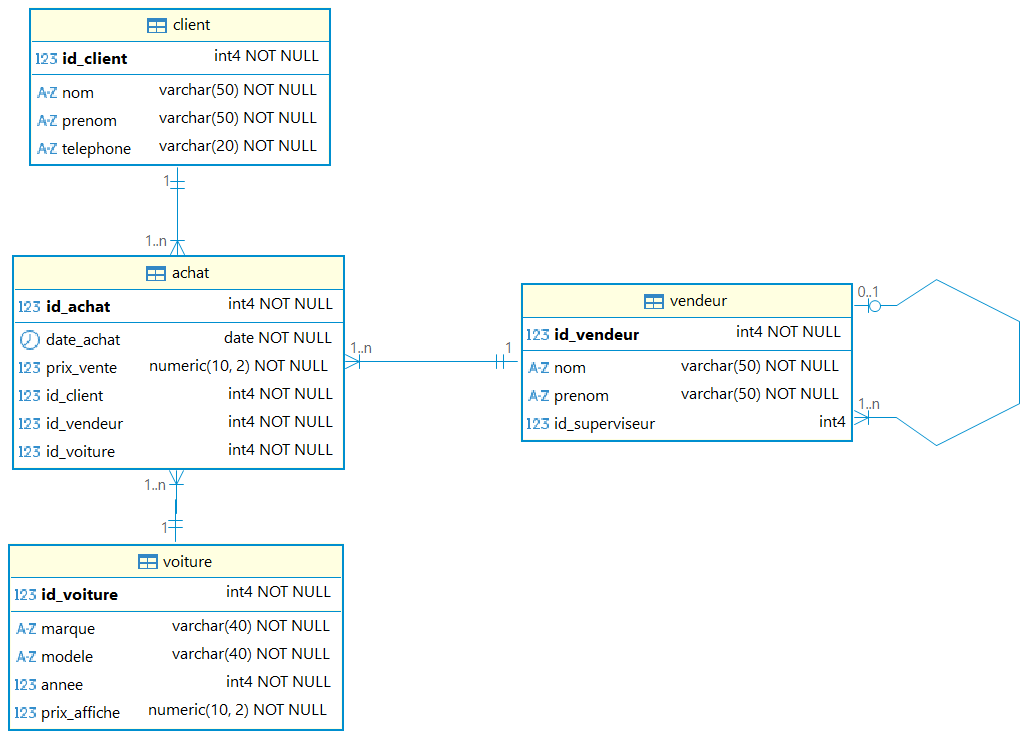
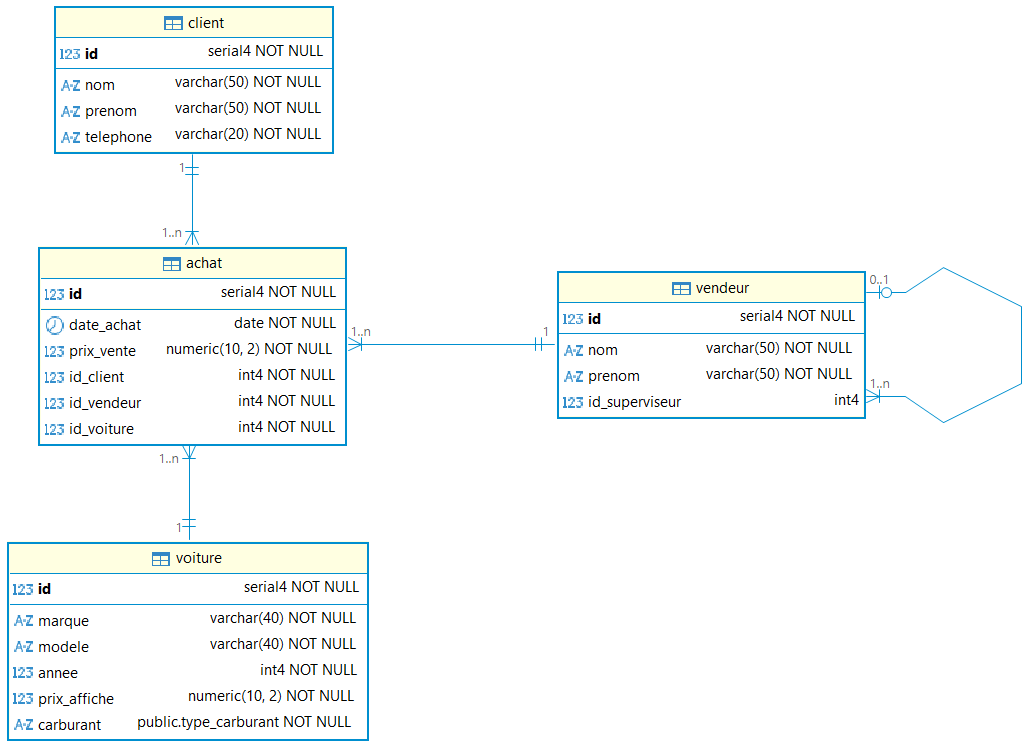
module 2 avec labo

diff --git a/docs/labs/lab03-ddl.md b/docs/labs/lab03-ddl.md
@@ -1,2 +1,229 @@
-# Création de tables et contraintes et clées primaires
+---
+title: "Lab 03 — Modélisation DDL : Concessionnaire automobile"
+aside: false
+---
+
+# Lab 03 — Modélisation DDL : Concessionnaire automobile
+
+## Objectif du laboratoire
+Appliquer les notions de **DDL** vues dans le cours afin de :
+- créer des tables relationnelles
+- définir des **types de données appropriés**
+- respecter un **schéma relationnel fourni**
+
+<div class="bg-red-50 border border-red-300 text-red-900 rounded-lg p-4 mb-5">
+<strong>Important — apprentissage</strong><br>
+Les instructions SQL doivent être <strong>tapées manuellement</strong> (ne pas copier-coller).  
+L’objectif est de maîtriser la syntaxe et d’être capable de la reproduire lors d’un examen.
+</div>
+
+<div class="bg-yellow-50 border border-yellow-200 text-yellow-900 rounded-lg p-4">
+<strong>Consignes importantes</strong><br>
+<ul class="list-disc pl-5">
+  <li>Créez d'abord la base de données lab03_concessionnaire</li>
+  <li>Ouvrez ensuite un nouveau script sur cette base de données</li>
+  <li>Exécutez une étape à la fois</li>
+</ul>
+</div>
+
+---
+
+## Contexte
+
+Un concessionnaire automobile souhaite gérer :
+- ses **clients**
+- ses **vendeurs**
+- ses **voitures**
+- les **achats** effectués
+
+Un schéma relationnel est fourni (image).
+
+<img src="../modules/01-introduction/images/mrd-concessionnaire.png" alt="Schéma du concessionnaire" class="img-bordered mb-5" />
+
+---
+
+## Travail à réaliser
+
+À partir du schéma fourni, écrire les instructions SQL nécessaires pour :
+
+1. Créer un **type ENUM PostgreSQL** représentant le **type de carburant** d’une voiture.
+2. Créer les tables suivantes :
+   - `client`
+   - `vendeur`
+   - `voiture`
+   - `achat`
+
+Le script doit pouvoir être exécuté **sur une base de données vide déjà créée**.
+
+---
+
+## Détails et contraintes à respecter
+
+### 1) Type ENUM — carburant
+- Le type ENUM doit contenir plusieurs valeurs possibles (ex. essence, diesel, electrique).
+- Le type ENUM doit être créé **avant** la table `voiture`.
+
+---
+
+### 2) Table `client`
+- Clé primaire auto-générée
+- Colonnes :
+  - nom (obligatoire)
+  - prénom (obligatoire)
+  - téléphone (obligatoire)
+
+---
+
+### 3) Table `vendeur`
+- Clé primaire auto-générée
+- Colonnes :
+  - nom (obligatoire)
+  - prénom (obligatoire)
+- Relation récursive :
+  - un vendeur peut avoir **0 ou 1 superviseur**
+  - le superviseur est un autre vendeur
+
+---
+
+### 4) Table `voiture`
+- Clé primaire auto-générée
+- Colonnes obligatoires :
+  - marque
+  - modèle
+  - année
+  - prix affiché
+  - type de carburant (ENUM)
+- Le prix affiché doit être **strictement positif**
+- Deux voitures identiques (même marque, modèle et année) ne doivent pas être dupliquées
+
+---
+
+### 5) Table `achat`
+- Clé primaire auto-générée
+- Colonnes obligatoires :
+  - date d’achat
+  - prix de vente
+- Le prix de vente doit être **strictement positif**
+- Un achat est associé :
+  - à un client
+  - à un vendeur
+  - à une voiture
+- Toutes ces relations doivent être représentées par des **clés étrangères**
+
+---
+
+## Vérification (dans DBeaver)
+
+- Visualiser le schéma relationnel.
+- Vérifier :
+  - les clés primaires
+  - les clés étrangères
+  - les contraintes (NOT NULL, UNIQUE, CHECK)
+  - la relation récursive du vendeur
+
+---
+
+## Questions (réflexion)
+
+- Pourquoi le type ENUM doit-il être créé avant la table `voiture` ?
+- Pourquoi la relation superviseur → vendeur est-elle optionnelle ?
+- Pourquoi la table `achat` contient-elle plusieurs clés étrangères ?
+- Quel problème est évité par la contrainte d’unicité sur la table `voiture` ?
+
+<details class="mt-6">
+<summary class="cursor-pointer font-semibold text-red-700">
+⚠ Corrigé — À consulter seulement après avoir fait l’exercice
+</summary>
+
+<div class="bg-red-50 border border-red-300 text-red-900 rounded-lg p-4 mt-4">
+<strong>Important</strong><br>
+Assurez-vous d’avoir <strong>complété l’exercice</strong> ou, au minimum, d’avoir
+<strong>tenté sérieusement chacune des étapes</strong> avant de consulter le corrigé.<br><br>
+Le but du laboratoire est de pratiquer l’écriture du SQL et la réflexion sur la structure,
+pas de recopier une solution.
+</div>
+
+---
+
+### Type ENUM — carburant
+
+```sql
+CREATE TYPE type_carburant AS ENUM (
+    'essence',
+    'diesel',
+    'electrique'
+);
+```
+
+---
+
+### Table `client`
+
+```sql
+CREATE TABLE client (
+    id_client SERIAL PRIMARY KEY,
+    nom VARCHAR(50) NOT NULL,
+    prenom VARCHAR(50) NOT NULL,
+    telephone VARCHAR(20) NOT NULL
+);
+```
+
+---
+
+### Table `vendeur`
+
+```sql
+CREATE TABLE vendeur (
+    id_vendeur SERIAL PRIMARY KEY,
+    nom VARCHAR(50) NOT NULL,
+    prenom VARCHAR(50) NOT NULL,
+    id_superviseur INTEGER,
+    FOREIGN KEY (id_superviseur) REFERENCES vendeur(id_vendeur)
+);
+```
+
+---
+
+### Table `voiture`
+
+```sql
+CREATE TABLE voiture (
+    id_voiture SERIAL PRIMARY KEY,
+    marque VARCHAR(40) NOT NULL,
+    modele VARCHAR(40) NOT NULL,
+    annee INTEGER NOT NULL,
+    prix_affiche NUMERIC(10,2) NOT NULL CHECK (prix_affiche > 0),
+    carburant type_carburant NOT NULL,
+    UNIQUE (marque, modele, annee)
+);
+```
+---
+
+### Table `achat`
+
+```sql
+CREATE TABLE achat (
+    id_achat SERIAL PRIMARY KEY,
+    date_achat DATE NOT NULL,
+    prix_vente NUMERIC(10,2) NOT NULL CHECK (prix_vente > 0),
+    id_client INTEGER NOT NULL,
+    id_vendeur INTEGER NOT NULL,
+    id_voiture INTEGER NOT NULL,
+    FOREIGN KEY (id_client) REFERENCES client(id_client),
+    FOREIGN KEY (id_vendeur) REFERENCES vendeur(id_vendeur),
+    FOREIGN KEY (id_voiture) REFERENCES voiture(id_voiture)
+);
+```
+
+---
+
+### Ordre de création recommandé
+
+1. type_carburant  
+2. client  
+3. vendeur  
+4. voiture  
+5. achat  
+
+</details>
 

diff --git a/docs/modules/02-ddl-base/05-demo-ddl.md b/docs/modules/02-ddl-base/05-demo-ddl.md
@@ -3,7 +3,7 @@ title: "Démo — Créer une BD, des tables, des contraintes, des clés (PK/FK)"
 aside: false
 ---
 
-# 05 — Démo — Créer une BD, des tables, des contraintes, des clés (PK/FK)
+# 05 — Démonstration guidée — Créer une BD, des tables, des contraintes, des clés (PK/FK)
 
 ## Objectif de la démo
 - Créer une base de données PostgreSQL.
@@ -133,6 +133,11 @@ CREATE TABLE inscription (
 
 ---
 
+<details class="mt-6">
+<summary class="cursor-pointer font-semibold text-blue-700">
+Script complet pour validation
+</summary>
+
 ## Script complet (exécuter dans l’ordre)
 
 ```sql
@@ -162,6 +167,7 @@ CREATE TABLE inscription (
     UNIQUE (evenement_id, participant_id)
 );
 ```
+</details>
 
 ---
 
@@ -170,3 +176,10 @@ CREATE TABLE inscription (
 - Identifier la contrainte qui empêche deux participants avec le même courriel.
 - Expliquer pourquoi une clé étrangère empêche des incohérences.
 - Expliquer l’effet de <code>UNIQUE (evenement_id, participant_id)</code>.
+
+<div class="bg-blue-50 border border-blue-200 text-blue-900 rounded-lg p-4">
+<strong>À faire prochainement</strong><br><br>
+Faire le <strong>Lab 03 — Modélisation DDL : Concessionnaire automobile</strong>.
+
+[Aller au laboratoire 03](../../labs/lab03-ddl.md)
+</div>

diff --git a/docs/modules/02-ddl-base/02-create-table.md b/docs/modules/02-ddl-base/02-create-table.md
@@ -63,20 +63,20 @@ Une colonne est définie par :
 ## Types de données courants (PostgreSQL)
 
 ### Types numériques
-- `INTEGER`
-- `SERIAL` *(aperçu, utilisé plus tard pour les clés primaires)*
+- `INTEGER` (ex. : âge, quantité, nombre de places)
+- `SERIAL` *(aperçu, utilisé plus tard pour les clés primaires)* (ex. : identifiant automatique)
 
 ### Types textuels
-- `VARCHAR(n)`
-- `TEXT`
+- `VARCHAR(n)` (ex. : `VARCHAR(100)` pour un nom ou un courriel)
+- `TEXT` (ex. : description, commentaire long)
 
 ### Dates et temps
-- `DATE`
-- `TIMESTAMP`
+- `DATE` (ex. : date de naissance, date d’événement)
+- `TIMESTAMP` (ex. : date et heure d’inscription)
 
 ### Autres types utiles
-- `BOOLEAN`
-- `NUMERIC(p, s)`
+- `BOOLEAN` (ex. : actif / inactif)
+- `NUMERIC(p, s)` (ex. : `NUMERIC(8,2)` pour un montant en dollars)
 
 **Choisir un type approprié est essentiel** pour la cohérence et la qualité des données.
 

diff --git a/docs/modules/01-introduction/03-modelisation.md b/docs/modules/01-introduction/03-modelisation.md
@@ -58,8 +58,8 @@ L’objectif est de **savoir les lire et les interpréter**, pas de les concevoi
 
 > Remarquer également les conventions de nomenclature :
 > - Les **tables** sont nommées au **singulier** (`client`, `vendeur`, `voiture`, `achat`).
-> - Les **clés primaires** portent le nom `id_<table>` (ex. : `id_client`).
-> - Les **clés étrangères** reprennent le nom de la PK qu’elles référencent  
+> - Les **clés primaires** portent le nom `id`.
+> - Les **clés étrangères** contiennent le nom de la table qu’elles référencent 
 >   (ex. : `achat.id_client` → `client.id_client`).
 > - Les noms sont en **minuscules**, sans accents ni espaces.
 > - Les mots sont séparés par un **underscore** (`snake_case`).

diff --git a/docs/modules/01-introduction/02-structure-relationnelle.md b/docs/modules/01-introduction/02-structure-relationnelle.md
@@ -8,7 +8,7 @@ title: "03 — Structure relationnelle"
 - Décrire la structure d’une base relationnelle.
 - Expliquer tables, champs, enregistrements, clés, index, relations.
 
-## Base relationnelle : composants
+## Base de données relationnelle : composants
 
 Nous allons modéliser une base de données qui contient plusieurs entités, reliées entre elles par des relations.
 
